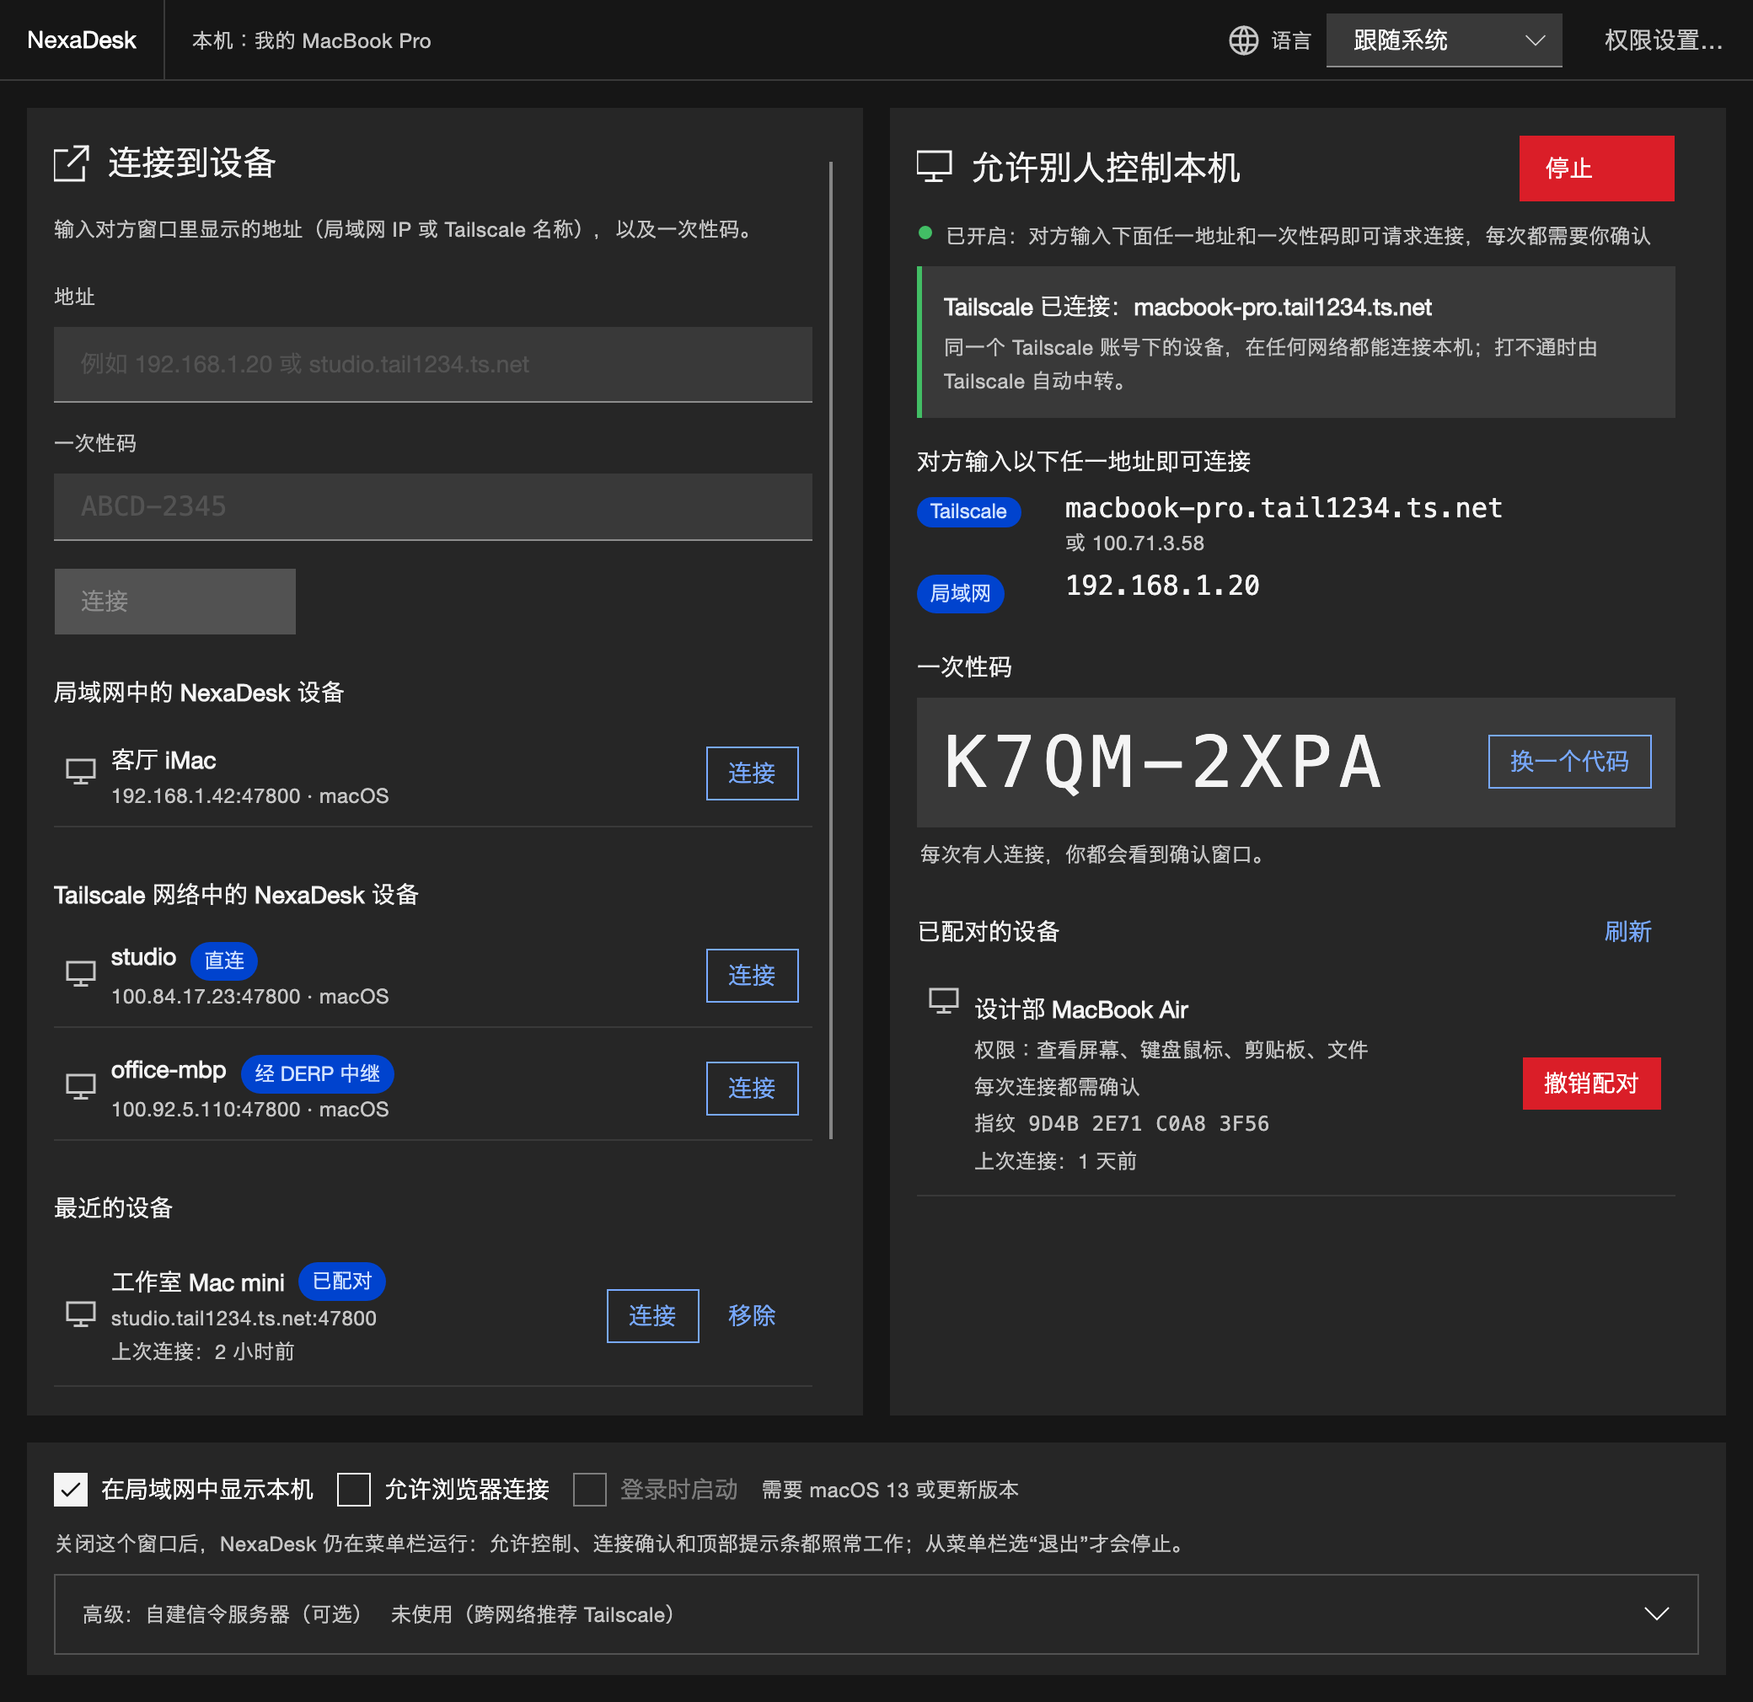
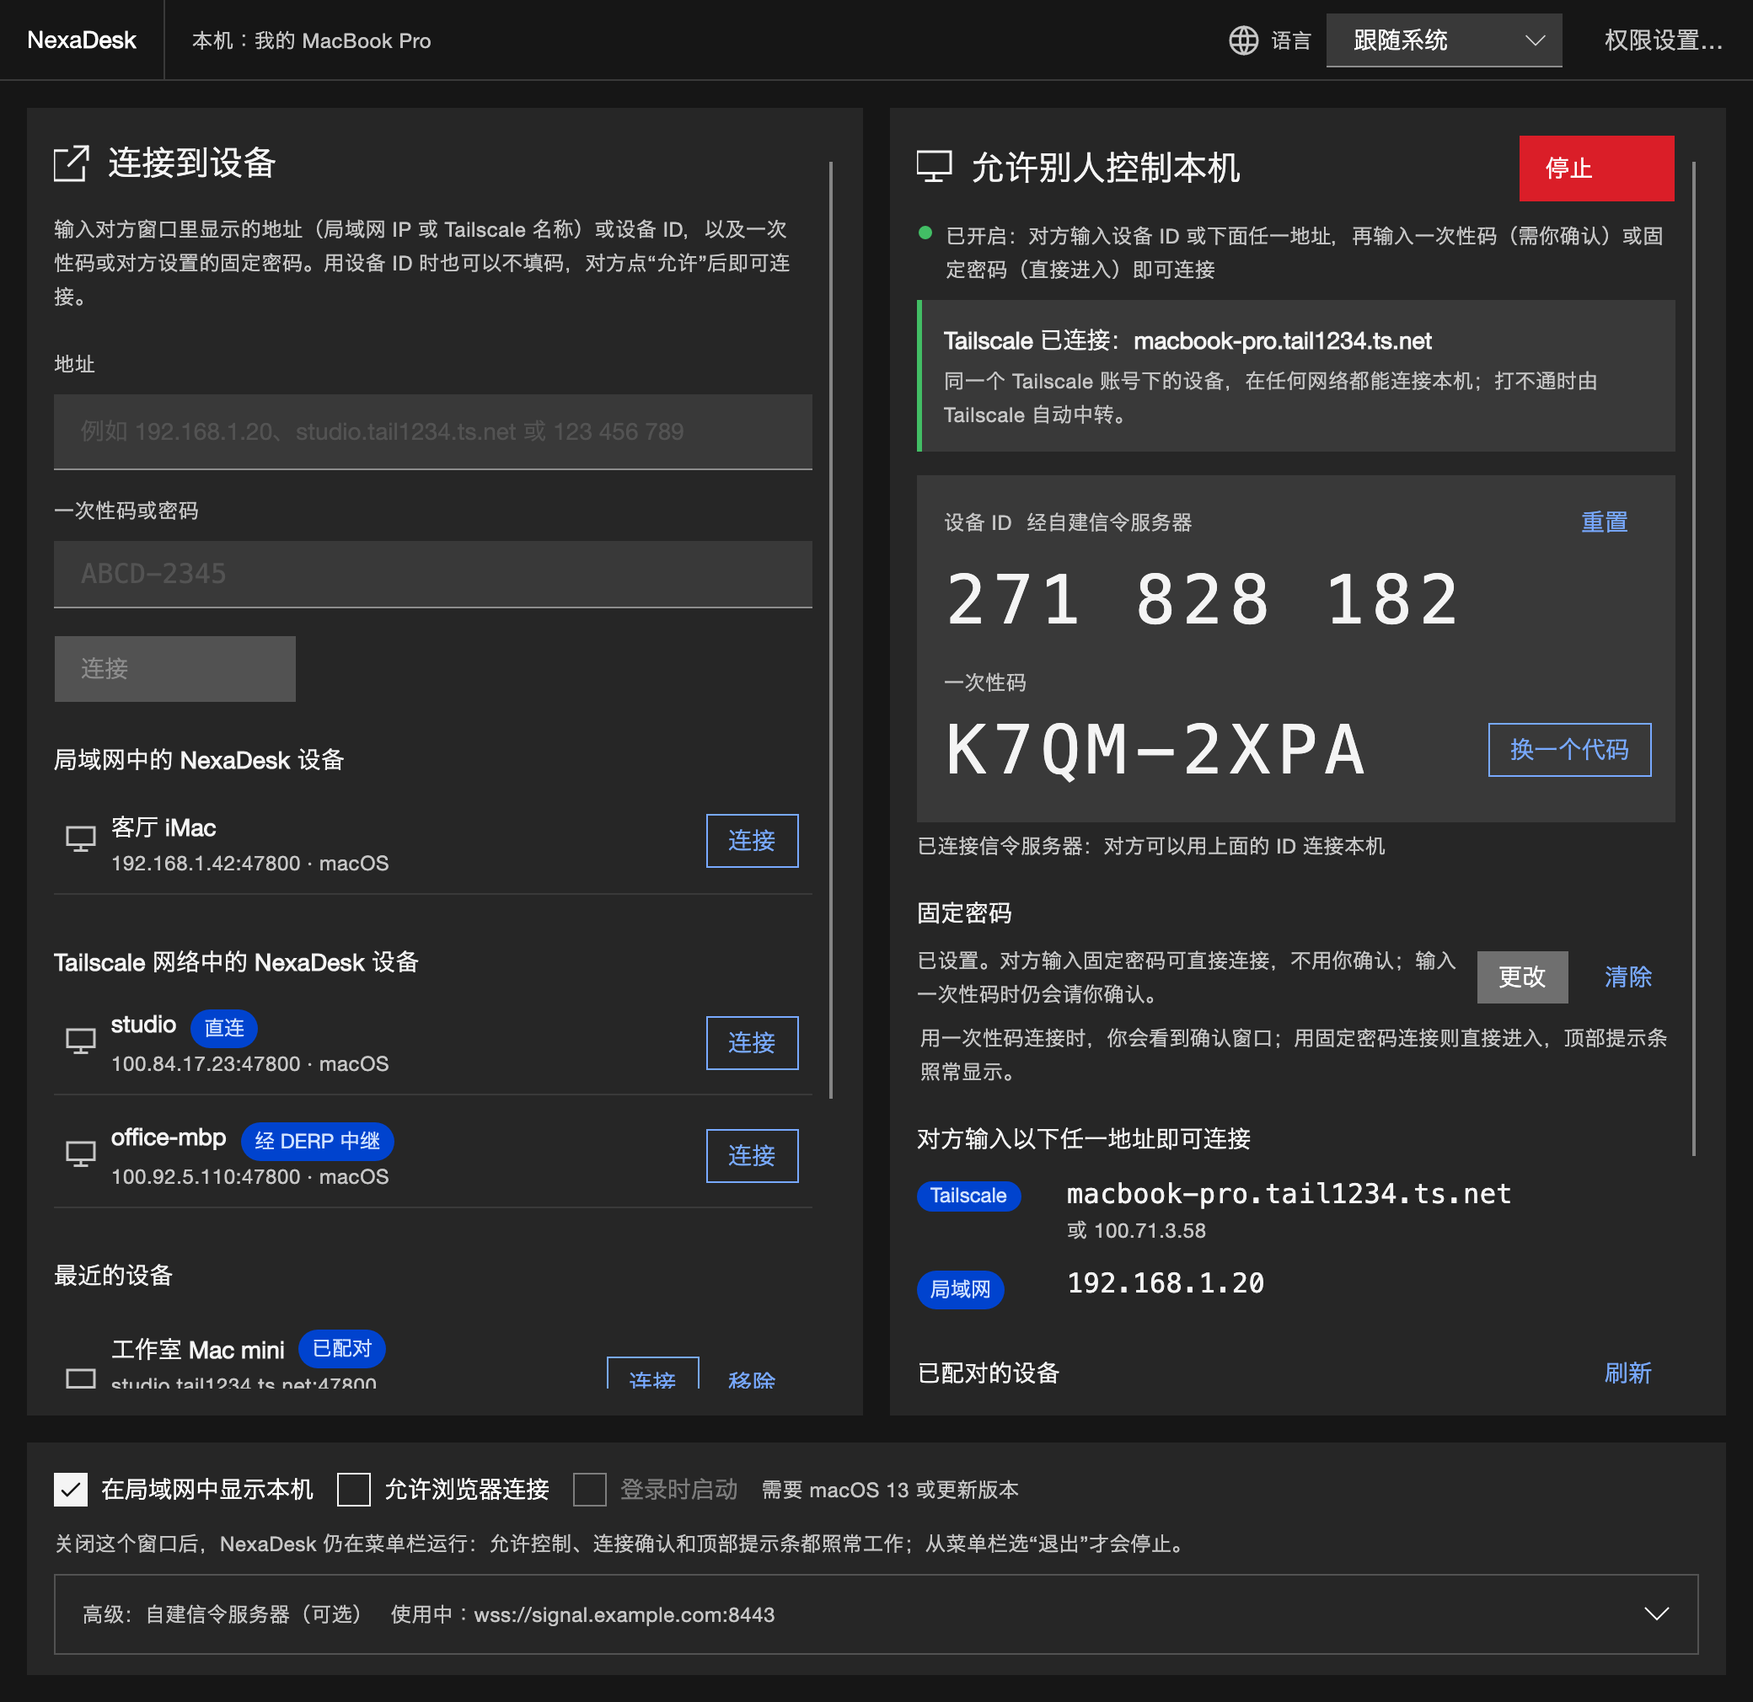
Show the new features in the README
New screenshots: the host panel with the device ID and code up front, the
banner with two people at once and folded, the browser's screen/terminal
choice, a session with the network panel, and a terminal-only session.
scripts/web-screenshots.mjs drives a real session against the demo in
headless Chrome; the demo can use a plain shell (NEXA_DEMO_SHELL) so the
terminal shows nothing of the machine it ran on.

The feature list now covers sign-in options, direct-first browsers,
resolution, several people at once and the command-line hosts.

diff --git a/ui/NexaDesk.Screenshots/Program.cs b/ui/NexaDesk.Screenshots/Program.cs
@@ -55,7 +55,8 @@ store.Save([
     new RecentDevice("studio.tail1234.ts.net:47800", "工作室 Mac mini", StudioKey, now.AddHours(-2).ToUnixTimeSeconds()),
     new RecentDevice("192.168.1.42:47800", "客厅 iMac", "", now.AddDays(-3).ToUnixTimeSeconds()),
 ]);
-var vm = new MainViewModel(client, store, link, new Process(), new Perms(), windows, new Addresses(), "我的 MacBook Pro", () => now);
+var settings = new MemorySettings(new AppSettings(SignalServer: "wss://signal.example.com:8443"));
+var vm = new MainViewModel(client, store, link, new Process(), new Perms(), windows, new Addresses(), "我的 MacBook Pro", () => now, settings);
 client.Raise(new ReadyEvent(0, new string('3', 64), [new KnownHost(StudioKey, "工作室 Mac mini", 0)], ""));
 client.Raise(new TailnetDevicesEvent(0,
     [
@@ -73,7 +74,8 @@ Pump();
 
 link.Next = null;
 await vm.Host.StartCommand.ExecuteAsync(null);
-link.Raise(new AgentMessage.Status(1, "[::]:47800", "K7QM2XPA", "我的 MacBook Pro", "3f9a1c07d2e84b56", new string('a', 64), null, true));
+link.Raise(new AgentMessage.Status(1, "[::]:47800", "K7QM2XPA", "我的 MacBook Pro", "3f9a1c07d2e84b56", new string('a', 64), null, true,
+    ShortId: "271828182", Signal: SignalState.Online, PasswordSet: true));
 link.Raise(new AgentMessage.Pairings([
[1 lines of base64/hex data omitted]
         new Permissions(true, true, true, true, false), (ulong)now.AddDays(-12).ToUnixTimeSeconds(), (ulong)now.AddDays(-1).ToUnixTimeSeconds(), false),
@@ -98,8 +100,20 @@ Pump();
 link.Raise(new AgentMessage.SessionStarted(new HostSession(9, "设计部 MacBook Air", "a41c7e09b3d25f68",
[1 lines of base64/hex data omitted]
     new Permissions(true, true, true, true, false))));
+// A second person at the same time: a browser with only the command line.
+link.Raise(new AgentMessage.SessionStarted(new HostSession((1UL << 48) + 1, "Chrome · Windows (browser)", "c3a0e57b19d24f68",
[1 lines of base64/hex data omitted]
+    new Permissions(false, false, false, Terminal: true))));
 Pump();
-if (windows.Banner is { } banner) Shot(banner, "banner");
+if (windows.Banner is { } banner)
+{
+    Shot(banner, "banner");
+    windows.BannerStack.IsCollapsed = true;
+    Pump();
+    Shot(banner, "banner-folded");
+    windows.BannerStack.IsCollapsed = false;
+    Pump();
+}
 
 vm.Connect.Address = "studio.tail1234.ts.net";
 vm.Connect.Code = "abcd-2345";

diff --git a/crates/nexa-web/examples/demo.rs b/crates/nexa-web/examples/demo.rs
@@ -109,9 +109,11 @@ mod demo {
         }
         fn terminal(&self, cols: u16, rows: u16) -> Result<nexa_term::Pty, String> {
             println!("terminal opened {cols}x{rows}");
+            // NEXA_DEMO_SHELL: another shell, e.g. a plain /bin/sh for screenshots.
             nexa_term::Pty::spawn(&nexa_term::Spawn {
                 cols,
                 rows,
+                shell: std::env::var_os("NEXA_DEMO_SHELL").map(Into::into),
                 ..Default::default()
             })
             .map_err(|e| e.to_string())

diff --git a/README.md b/README.md
@@ -2,32 +2,40 @@
 
 轻量的远程控制软件。目标是高清、低延迟，粘贴可靠，键盘对 Win / Mac 友好，能自己打洞，也能借助 Tailscale。界面用 Avalonia，后端用 Rust。
 
-> **状态**：macOS ↔ macOS 的功能已经写完，自动化测试全部通过，但**还没在两台真实的 Mac、真实的网络上验证过**。Web 端（浏览器查看和控制，含手机、输入法、剪贴板，可经自建服务器跨网络）已实现，只用演示主机在 Chrome 中做过自动化端到端测试；Windows 端尚未开始。暂时不建议用在重要场合。
+> **状态**：macOS ↔ macOS 的功能已经写完，自动化测试全部通过，但**还没在两台真实的 Mac、真实的网络上验证过**。浏览器端（查看、控制、命令行，含手机、输入法、剪贴板，可经自建服务器跨网络）已在 Chrome 中做过自动化端到端测试，并经公网服务器实测过。Linux / Windows 的命令行被控端已能构建，Linux 版已在服务器上注册运行，Windows 版尚未实机运行。图形化的 Windows 端尚未开始。暂时不建议用在重要场合。
 
 ## 截图
 
-主窗口：左边连接别的设备（局域网和 Tailscale 里的设备会自动列出），右边允许别人控制本机（对方可输入的地址、一次性码、已配对的设备）。自动跟随系统的浅色和深色。
+主窗口：左边连接别的设备（局域网和 Tailscale 里的设备会自动列出），右边允许别人控制本机：最上面是放大显示的设备 ID 和一次性码，点一下就复制，设备 ID 可以重置；下面是固定密码和对方可输入的地址。自动跟随系统的浅色和深色。
 
 <p>
   <img src="docs/images/main.png" width="49%" alt="主窗口（浅色）">
   <img src="docs/images/main-dark.png" width="49%" alt="主窗口（深色）">
 </p>
 
-有人连接时，本机弹出确认窗口：显示对方是谁、怎么验证的、密钥指纹，由你勾选允许的权限。“拒绝”是默认按钮，“允许”在窗口出现一秒后才能点。浏览器端不用安装任何软件，输入一次性码即可。
+有人连接时，本机弹出确认窗口：显示对方是谁、怎么验证的、密钥指纹，由你勾选允许的权限。“拒绝”是默认按钮，“允许”在窗口出现一秒后才能点。用固定密码连接的是机主本人，不弹窗。浏览器端不用安装任何软件，连接时可以选“屏幕”还是“终端”。
 
 <p>
   <img src="docs/images/consent.png" width="36%" alt="连接确认">
-  <img src="docs/images/web.png" width="62%" alt="浏览器端">
+  <img src="docs/images/web.png" width="62%" alt="浏览器端连接页">
 </p>
 
-控制别人时，画面上方是工具栏（模式、声音、文件、HUD、诊断）；被控制时，本机顶部一直显示提示条，随时可以断开。
+浏览器里看到并操作对方的屏幕。顶栏显示连接方式、延迟和帧率；展开后可以看丢包和码率，切换画质和分辨率（自动时跟浏览器窗口一样清晰）。选“终端”时只打开对方的命令行，不传画面。
+
+<p>
+  <img src="docs/images/web-session.png" width="56%" alt="浏览器端会话与网络面板">
+  <img src="docs/images/web-terminal.png" width="42%" alt="浏览器端命令行">
+</p>
+
+控制别人时，画面上方是工具栏（模式、声音、文件、HUD、诊断）。被控制时，本机顶部一直显示提示条，每个连接的人一行，可以单独断开；挡住画面时可以收起成一个小标签，但不会完全隐藏。
 
 <p>
   <img src="docs/images/toolbar.png" width="80%" alt="控制端工具栏"><br>
-  <img src="docs/images/banner.png" width="60%" alt="被控端提示条">
+  <img src="docs/images/banner.png" width="60%" alt="被控端提示条（两人同时连接）">
+  <img src="docs/images/banner-folded.png" width="14%" alt="收起后的提示条">
 </p>
 
-截图里的设备、地址和代码都是虚构的。界面改动后运行 `scripts/screenshots.sh` 重新生成：应用界面由 `ui/NexaDesk.Screenshots` 用真实的界面代码离屏渲染，浏览器页面用无界面的 Google Chrome 截取。
+截图里的设备、地址和代码都是虚构的。界面改动后运行 `scripts/screenshots.sh` 重新生成：应用界面由 `ui/NexaDesk.Screenshots` 用真实的界面代码离屏渲染；浏览器页面由 `scripts/web-screenshots.mjs` 在无界面的 Google Chrome 里对演示主机走一遍真实的会话截取，终端用的是一个干净的 `/bin/sh`。
 
 ## 特点
 
@@ -40,15 +48,21 @@
 - **键盘**：按物理键码传输，控制端改写组合键意图。例如在 Mac 上按 ⌘C 控制 Windows 时发出 Ctrl+C，而不是全局对调 Ctrl 和 Cmd。映射表可以编辑和预览。
 - **剪贴板与粘贴**：按代际同步。远端粘贴前先等剪贴板到达对端，再放行粘贴键，避免粘贴出旧内容。
 - **游戏模式**：锁定指针，发送相对移动；FEC 更强，延迟更低。
-- **浏览器控制**：对方不用安装任何软件，用浏览器打开 `https://本机地址:47801`，输入一次性码即可查看和控制。页面和 WebRTC 都由本机提供，不需要服务器；适合局域网和 Tailscale。手机可用触控手势和屏幕键盘，输入法照常可用，文字剪贴板双向同步，非 Mac 键盘的 Ctrl+C/V 自动对应 ⌘C/V。有自建服务器时，也可以从任何网络打开服务器的网址、输入设备 ID 连接，画面经服务器的 TURN 中转。浏览器顶部显示连接方式和网络质量，画质可选自动、清晰、均衡、弱网。默认关闭，在主窗口底部打开“允许浏览器连接”。
-- **多人同时连接**：最多 4 人同时连接同一台 Mac（应用和浏览器合计），各自确认、都能操作；每人一条顶部提示条，可单独断开，也可以收起成一个小标签。
-- **命令行**：浏览器连接时可以选“屏幕”或“终端”。终端打开被控端的 shell（xterm.js），是单独一项权限，默认不勾。Linux 和 Windows 服务器用命令行被控端 `nexa-term-host`（PowerShell / bash），见 [docs/TERM_HOST.md](docs/TERM_HOST.md)。
+- **浏览器控制**：对方不用安装任何软件。
+  - 局域网和 Tailscale 里，用浏览器打开 `https://本机地址:47801`，页面和 WebRTC 都由本机提供，不经过服务器。
+  - 有自建服务器时，从任何网络打开服务器的网址、输入设备 ID 连接。先经服务器的 TURN 中转；本机点了允许之后，才把自己的局域网和 Tailscale 地址告诉浏览器，同一网络里自动切到直连。
+  - 手机可用触控手势和屏幕键盘，输入法照常可用，文字剪贴板双向同步，非 Mac 键盘的 Ctrl+C/V 自动对应 ⌘C/V。页面支持中文、English、日本語。
+  - 顶栏显示连接方式、延迟和帧率；画质可选自动、清晰、均衡、弱网，分辨率可选自动（按浏览器窗口的实际像素）、原生、1080p、720p。
+  - 默认关闭，在主窗口底部打开“允许浏览器连接”。
+- **登录方式**：一次性码（对方点允许）；固定密码（机主自己的入口，直接进入）；经服务器时也可以只填设备 ID，对方会看到标明“无法核实身份”的请求。设备 ID 可以随时重置。
+- **多人同时连接**：最多 4 人同时连接同一台 Mac（应用和浏览器合计），每人单独确认，都能操作，互不顶替；谁离开就只结束谁的会话。本机提示条每人一行，可以单独断开，也可以收起。
+- **命令行**：浏览器连接时可以选“屏幕”或“终端”。终端打开被控端的 shell（xterm.js），是单独一项权限，默认不勾；会话结束时 shell 和它启动的所有进程一起结束。没有图形界面的 Linux / Windows 机器用命令行被控端 `nexa-term-host`（bash / PowerShell），见 [docs/TERM_HOST.md](docs/TERM_HOST.md)。
 - **其他**：光标形状、声音（Opus）、文件收发、多显示器、断线 30 秒内自动重连、HUD 与连接诊断。
 - **多语言**：简体中文、English、日本語。默认跟随 macOS 的语言设置，也可以在主窗口右上角切换（重启后生效）。
 - **安全**：
   - 双向 TLS，身份就是设备公钥。
   - 首次连接用一次性码或固定密码做 SPAKE2 配对，并绑定到 TLS 会话；之后钉住对方公钥。固定密码在“允许别人控制本机”下设置，只保存 Argon2id 的结果，和一次性码同时有效，原生端和浏览器都能用。
-  - 每次被控都要本机确认（可对已配对设备设为无人值守），并显示提示条。
+  - 被控时本机要确认（可对已配对设备设为无人值守；固定密码直接进入），并一直显示提示条。
   - 配对猜测按来源限制。
 
 ## 仓库结构
@@ -69,10 +83,13 @@
 | `crates/nexa-web-page` | 浏览器端网页，由被控端和信令服务器共用 |
 | `crates/nexa-turn` | TURN 服务器与客户端（纯状态机），只在同一服务器的分配之间中转 |
 | `crates/nexa-web-pake` | 浏览器一侧的配对（SPAKE2），编译为 WebAssembly |
+| `crates/nexa-term` | 伪终端上的 shell（Linux / macOS 用 PTY，Windows 用 ConPTY），随会话结束整个进程树 |
+| `crates/nexa-term-host` | 只有命令行的被控端 `nexa-term-host`，用于 Linux、Windows 服务器 |
 | `ui/` | Avalonia 桌面应用（.NET 10，NativeAOT）、测试和 README 截图工具 |
 | `deploy/` | 服务器的 systemd 单元、Docker 镜像与 Compose、配置模板、证书续期钩子 |
 | `docs/` | 设计文档、部署说明、M0 验证报告 |
 | `spikes/` | M0 阶段的验证代码 |
+| `third_party/` | 打了小补丁的第三方代码（dimpl，让 Linux 版不依赖 aws-lc），说明见其中的 README |
 
 ## 构建（macOS）
 
@@ -117,6 +134,10 @@ cargo build --release -p nexa-agent -p nexa-client
 
 不能用 Tailscale 时，可以自建信令服务器，按 9 位设备 ID 连接：部署方法见 [docs/DEPLOY.md](docs/DEPLOY.md)，然后在主窗口的“高级：自建信令服务器（可选）”里填写地址。
 
+被控端可以在“固定密码”里设一个密码：用它连接时直接进入，不弹确认窗口，适合连自己的电脑。
+
+没有图形界面的 Linux 或 Windows 机器，用命令行被控端：`scripts/build-term-host.sh` 构建，`nexa-term-host --signal wss://你的服务器:8443` 运行，然后在浏览器里打开服务器网址、选“终端”、输入它打印的设备 ID。详见 [docs/TERM_HOST.md](docs/TERM_HOST.md)。
+
 被控端也可以从命令行运行，在终端里确认连接：
 
 ```bash
@@ -159,5 +180,6 @@ cargo run -p nexa-web --example demo
 - **验证**：两台 Mac 的实机联调；真实 NAT 环境下的打洞测试（经自建服务器中继已在公网实测，见 docs/DEPLOY.md §6）。
 - **macOS 发布**：Developer ID 签名与公证、安装包、自动更新，以及登录界面和锁屏前的远程访问。
 - **其他平台**：Windows 的图形被控端与控制端（命令行被控端已有，见 docs/TERM_HOST.md）。
-- **Web 端后续**：真实手机、Safari、Firefox 和公网环境下的实测与延迟；TURN over TCP/TLS（UDP 被封的网络）；声音和文件传输。
+- **Web 端后续**：真实手机、Safari、Firefox 上的实测；TURN over TCP/TLS（UDP 被封的网络）；声音和文件传输；应用（非浏览器）里的终端。
+- **命令行被控端**：Windows 版的实机运行；作为 Windows 服务运行。
 - **产品决定**：无人值守机器的首次配对方式；知道 ID 的人默认能做什么；文件权限是否按方向拆开。
